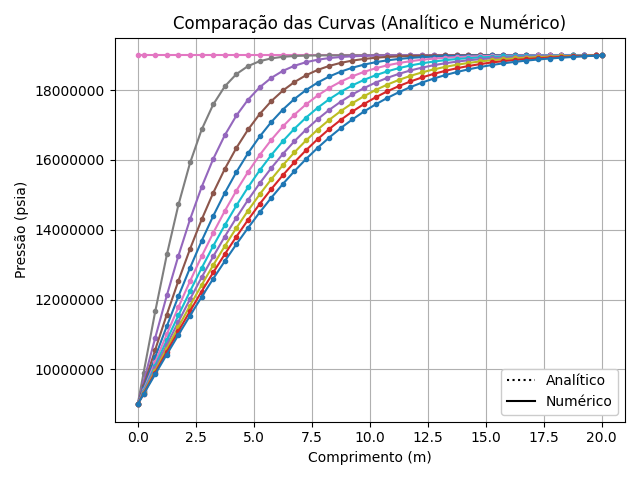
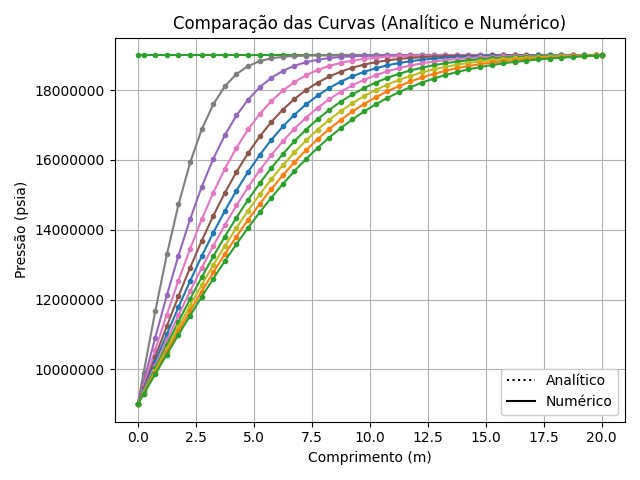
Apenas reorganização dos arquivos em diretórios.
Lembrando que tem que arrumar o Fluxo-Fluxo!

Changed region(s): [[0.2188, 0.0938, 0.9688, 0.8438], [0.2188, 0.0938, 0.4688, 0.125]]

diff --git a/Simuladores_Explicito/Sim_LinearFlow_CCFlowPress.py b/Simuladores_Explicito/Sim_LinearFlow_CCFlowPress.py
@@ -1,6 +1,6 @@
 """
-Simuladores para fluxo linear e radial - Métodos numéricos
-Condições de Contorno de Neumann - Fluxo no poço e na fronteira.
+Simuladores para fluxo linear e radial - Métodos analitico e numérico
+Condições de Contorno de Neumann e Dirichlet - Fluxo no poço e Pressão na fronteira.
 
 Método FTCS -- Forward in Time Centered Space
 """
@@ -20,8 +20,8 @@ class NumericalAnalysis:
         self.start_simulate()
 
     def plot_results(self, data: Df):
-        if not os.path.isdir(f'results\\Simulador_Fluxo-Fluxo'):
-            os.makedirs(f'results\\Simulador_Fluxo-Fluxo')
+        if not os.path.isdir(f'../results/Simulador_Fluxo-Pressao'):
+            os.makedirs(f'../results/Simulador_Fluxo-Pressao')
 
         # Setting the mesh points as the dataframe index
         index_for_dataframe = [round(self.wellclass.mesh[key], ndigits=3) for key in self.wellclass.mesh.keys()]
@@ -36,14 +36,14 @@ class NumericalAnalysis:
         plt.ticklabel_format(axis='y', style='plain')
         plt.xlabel('Comprimento (m)')
         plt.ylabel('Pressão (psia)')
-        plt.title('Flow-Flow [Numérico]')
+        plt.title('Flow-Pressão [Numérico]')
         plt.legend(framealpha=1)
         plt.grid()
         plt.tight_layout()
-        plt.savefig(f'results\\Simulador_Fluxo-Fluxo\\fluxo-fluxo_numerico.png')
+        plt.savefig(f'results\\Simulador_Fluxo-Pressao\\fluxo-pressao_numerico.png')
         plt.close()
 
-        data.to_excel(f'results\\Simulador_Fluxo-Fluxo\\fluxo-fluxo_numerico.xlsx')
+        data.to_excel(f'results\\Simulador_Fluxo-Pressao\\fluxo-pressao_numerico.xlsx')
 
     def start_simulate(self):
         pressure_df, col_idx, row_idx = Functions.create_dataframe(time=self.time, n_cells=self.wellclass.n_cells)
@@ -59,18 +59,14 @@ class NumericalAnalysis:
             else:
                 for j_row in row_idx:
 
-                    if j_row == 0:  # Poço
+                    if j_row == 0:
                         p0_t = pressure_df.loc[j_row + 1, last_column]  # pressão no ponto 1, tempo anterior.
                         pressure_df.loc[j_row, i_col] = p0_t - (((self.wellclass.well_flow * self.wellclass.viscosity)
                                                                  / (self.wellclass.permeability *
-                                                                    self.wellclass.res_area)) * self.wellclass.deltax / 2)
+                                                                    self.wellclass.res_area)) * self.wellclass.deltax/2)
 
-                    elif j_row == self.wellclass.n_cells + 1:  # Fronteira externa
-                        a = (self.wellclass.injectflow * self.wellclass.viscosity) / \
-                            (self.wellclass.permeability * self.wellclass.res_area)
-                        b = self.wellclass.deltax / 2
-                        p_n = pressure_df.loc[j_row - 1, last_column]  # pressão no ponto N, no tempo anterior.
-                        pressure_df.loc[j_row, i_col] = p_n - (a * b)
+                    elif j_row == self.wellclass.n_cells + 1:
+                        pressure_df.loc[j_row, i_col] = self.wellclass.initial_pressure
 
                     else:
                         if j_row == 1:  # i = 1. Ponto central da primeira célula.
@@ -88,11 +84,9 @@ class NumericalAnalysis:
                             p_n_t = pressure_df.loc[j_row, last_column]  # pressão no ponto N, no tempo anterior.
                             p_n_1_t = pressure_df.loc[j_row - 1, last_column]  # pressão no ponto N-1, no
                             # tempo anterior
-                            a = - self.wellclass.eta * self.wellclass.rx * p_n_1_t
-                            b = (1 - (self.wellclass.eta * self.wellclass.rx)) * p_n_t
-                            c = - (self.wellclass.eta * self.wellclass.rx * self.wellclass.injectflow *
-                                   self.wellclass.viscosity * self.wellclass.deltax) / (self.wellclass.permeability *
-                                                                                        self.wellclass.res_area)
+                            a = (4 / 3) * self.wellclass.eta * self.wellclass.rx * p_n_1_t
+                            b = (1 - (4 * self.wellclass.eta * self.wellclass.rx)) * p_n_t
+                            c = (8 / 3) * self.wellclass.eta * self.wellclass.rx * self.wellclass.initial_pressure
                             pressure_df.loc[j_row, i_col] = a + b + c
 
                         else:
@@ -109,10 +103,64 @@ class NumericalAnalysis:
         self.plot_results(data=pressure_df)
 
 
+class AnaliticalAnalysis:
+    def __init__(self, t: np.ndarray, well_class: object):
+        self.pressure = None
+        self.time = t
+        self.well_class = well_class
+        self.start_simulate()
+
+    def plot_results(self, data: Df):
+        if not os.path.isdir(f'../results/Simulador_Fluxo-Pressao'):
+            os.makedirs(f'../results/Simulador_Fluxo-Pressao')
+
+        # Setting the mesh points as the dataframe index
+        index_for_dataframe = [round(self.well_class.mesh[key], ndigits=3) for key in self.well_class.mesh.keys()]
+        data = data.set_index(pd.Index(index_for_dataframe, name='x'))
+
+        time_to_plot = np.linspace(self.time[0], self.time[-1], 11)
+
+        for column in data.columns:
+            if column in time_to_plot:
+                plt.plot(data.index, data[column], label=f't = {int(column)}h')
+
+        plt.ticklabel_format(axis='y', style='plain')
+        plt.xlabel('Comprimento (m)')
+        plt.ylabel('Pressão (psia)')
+        plt.title('Fluxo-Pressão [Analítico]')
+        plt.legend(framealpha=1)
+        plt.grid()
+        plt.tight_layout()
+        plt.savefig(f'results\\Simulador_Fluxo-Pressao\\fluxo-pressao_analitico.png')
+        plt.close()
+
+        data.to_excel(f'results\\Simulador_Fluxo-Pressao\\fluxo-pressao_analitico.xlsx')
+
+    def start_simulate(self):
+        pressure_df, col_idx, row_idx = Functions.create_dataframe(time=self.time, n_cells=self.well_class.n_cells)
+
+        for time in col_idx:
+            if time == 0:
+                for x in row_idx:
+                    pressure_df.loc[x, time] = self.well_class.initial_pressure
+
+            else:
+                for x in row_idx:
+                    a = ((self.well_class.well_flow * self.well_class.viscosity) /
+                         (self.well_class.permeability * self.well_class.res_area))
+                    b = np.sqrt((4 * self.well_class.eta * time) / np.pi)
+                    c = np.exp(self.well_class.mesh[x] ** 2 / (-4 * self.well_class.eta * time))
+                    d = self.well_class.mesh[x]
+                    e = erfc(self.well_class.mesh[x] / np.sqrt(4 * self.well_class.eta * time))
+                    value = (self.well_class.initial_pressure - (a * ((b * c) - (d * e))))
+                    pressure_df.loc[x, time] = value
+
+        self.plot_results(data=pressure_df)
+
+
 class InitializeData:
     def __init__(self, initial_press: float, well_press: float, res_len: float, permeability: float, viscosity: float,
-                 porosity: float, compressibility: float, res_area: float, res_thick: float or int, wellflow: float,
-                 injectflow: float):
+                 porosity: float, compressibility: float, res_area: float, res_thick: float or int, wellflow: float):
         self.initial_pressure = initial_press
         self.well_pressure = well_press
         self.res_length = res_len
@@ -123,7 +171,6 @@ class InitializeData:
         self.res_area = res_area
         self.res_thickness = res_thick
         self.well_flow = wellflow
-        self.injectflow = injectflow
         self.eta = self.calc_eta()
 
     def calc_eta(self) -> float:

diff --git a/Simuladores_Explicito/Sim_LinearFlow_CCFlowFlow.py b/Simuladores_Explicito/Sim_LinearFlow_CCFlowFlow.py
@@ -1,6 +1,6 @@
 """
-Simuladores para fluxo linear e radial - Métodos analitico e numérico
-Condições de Contorno de Neumann e Dirichlet - Fluxo no poço e Pressão na fronteira.
+Simuladores para fluxo linear e radial - Métodos numéricos
+Condições de Contorno de Neumann - Fluxo no poço e na fronteira.
 
 Método FTCS -- Forward in Time Centered Space
 """
@@ -20,8 +20,8 @@ class NumericalAnalysis:
         self.start_simulate()
 
     def plot_results(self, data: Df):
-        if not os.path.isdir(f'results\\Simulador_Fluxo-Pressao'):
-            os.makedirs(f'results\\Simulador_Fluxo-Pressao')
+        if not os.path.isdir(f'../results/Simulador_Fluxo-Fluxo'):
+            os.makedirs(f'../results/Simulador_Fluxo-Fluxo')
 
         # Setting the mesh points as the dataframe index
         index_for_dataframe = [round(self.wellclass.mesh[key], ndigits=3) for key in self.wellclass.mesh.keys()]
@@ -36,14 +36,14 @@ class NumericalAnalysis:
         plt.ticklabel_format(axis='y', style='plain')
         plt.xlabel('Comprimento (m)')
         plt.ylabel('Pressão (psia)')
-        plt.title('Flow-Pressão [Numérico]')
+        plt.title('Flow-Flow [Numérico]')
         plt.legend(framealpha=1)
         plt.grid()
         plt.tight_layout()
-        plt.savefig(f'results\\Simulador_Fluxo-Pressao\\fluxo-pressao_numerico.png')
+        plt.savefig(f'results\\Simulador_Fluxo-Fluxo\\fluxo-fluxo_numerico.png')
         plt.close()
 
-        data.to_excel(f'results\\Simulador_Fluxo-Pressao\\fluxo-pressao_numerico.xlsx')
+        data.to_excel(f'results\\Simulador_Fluxo-Fluxo\\fluxo-fluxo_numerico.xlsx')
 
     def start_simulate(self):
         pressure_df, col_idx, row_idx = Functions.create_dataframe(time=self.time, n_cells=self.wellclass.n_cells)
@@ -59,14 +59,18 @@ class NumericalAnalysis:
             else:
                 for j_row in row_idx:
 
-                    if j_row == 0:
+                    if j_row == 0:  # Poço
                         p0_t = pressure_df.loc[j_row + 1, last_column]  # pressão no ponto 1, tempo anterior.
                         pressure_df.loc[j_row, i_col] = p0_t - (((self.wellclass.well_flow * self.wellclass.viscosity)
                                                                  / (self.wellclass.permeability *
-                                                                    self.wellclass.res_area)) * self.wellclass.deltax/2)
+                                                                    self.wellclass.res_area)) * self.wellclass.deltax / 2)
 
-                    elif j_row == self.wellclass.n_cells + 1:
-                        pressure_df.loc[j_row, i_col] = self.wellclass.initial_pressure
+                    elif j_row == self.wellclass.n_cells + 1:  # Fronteira externa
+                        a = (self.wellclass.injectflow * self.wellclass.viscosity) / \
+                            (self.wellclass.permeability * self.wellclass.res_area)
+                        b = self.wellclass.deltax / 2
+                        p_n = pressure_df.loc[j_row - 1, last_column]  # pressão no ponto N, no tempo anterior.
+                        pressure_df.loc[j_row, i_col] = p_n - (a * b)
 
                     else:
                         if j_row == 1:  # i = 1. Ponto central da primeira célula.
@@ -84,9 +88,11 @@ class NumericalAnalysis:
                             p_n_t = pressure_df.loc[j_row, last_column]  # pressão no ponto N, no tempo anterior.
                             p_n_1_t = pressure_df.loc[j_row - 1, last_column]  # pressão no ponto N-1, no
                             # tempo anterior
-                            a = (4 / 3) * self.wellclass.eta * self.wellclass.rx * p_n_1_t
-                            b = (1 - (4 * self.wellclass.eta * self.wellclass.rx)) * p_n_t
-                            c = (8 / 3) * self.wellclass.eta * self.wellclass.rx * self.wellclass.initial_pressure
+                            a = - self.wellclass.eta * self.wellclass.rx * p_n_1_t
+                            b = (1 - (self.wellclass.eta * self.wellclass.rx)) * p_n_t
+                            c = - (self.wellclass.eta * self.wellclass.rx * self.wellclass.injectflow *
+                                   self.wellclass.viscosity * self.wellclass.deltax) / (self.wellclass.permeability *
+                                                                                        self.wellclass.res_area)
                             pressure_df.loc[j_row, i_col] = a + b + c
 
                         else:
@@ -103,64 +109,10 @@ class NumericalAnalysis:
         self.plot_results(data=pressure_df)
 
 
-class AnaliticalAnalysis:
-    def __init__(self, t: np.ndarray, well_class: object):
-        self.pressure = None
-        self.time = t
-        self.well_class = well_class
-        self.start_simulate()
-
-    def plot_results(self, data: Df):
-        if not os.path.isdir(f'results\\Simulador_Fluxo-Pressao'):
-            os.makedirs(f'results\\Simulador_Fluxo-Pressao')
-
-        # Setting the mesh points as the dataframe index
-        index_for_dataframe = [round(self.well_class.mesh[key], ndigits=3) for key in self.well_class.mesh.keys()]
-        data = data.set_index(pd.Index(index_for_dataframe, name='x'))
-
-        time_to_plot = np.linspace(self.time[0], self.time[-1], 11)
-
-        for column in data.columns:
-            if column in time_to_plot:
-                plt.plot(data.index, data[column], label=f't = {int(column)}h')
-
-        plt.ticklabel_format(axis='y', style='plain')
-        plt.xlabel('Comprimento (m)')
-        plt.ylabel('Pressão (psia)')
-        plt.title('Fluxo-Pressão [Analítico]')
-        plt.legend(framealpha=1)
-        plt.grid()
-        plt.tight_layout()
-        plt.savefig(f'results\\Simulador_Fluxo-Pressao\\fluxo-pressao_analitico.png')
-        plt.close()
-
-        data.to_excel(f'results\\Simulador_Fluxo-Pressao\\fluxo-pressao_analitico.xlsx')
-
-    def start_simulate(self):
-        pressure_df, col_idx, row_idx = Functions.create_dataframe(time=self.time, n_cells=self.well_class.n_cells)
-
-        for time in col_idx:
-            if time == 0:
-                for x in row_idx:
-                    pressure_df.loc[x, time] = self.well_class.initial_pressure
-
-            else:
-                for x in row_idx:
-                    a = ((self.well_class.well_flow * self.well_class.viscosity) /
-                         (self.well_class.permeability * self.well_class.res_area))
-                    b = np.sqrt((4 * self.well_class.eta * time) / np.pi)
-                    c = np.exp(self.well_class.mesh[x] ** 2 / (-4 * self.well_class.eta * time))
-                    d = self.well_class.mesh[x]
-                    e = erfc(self.well_class.mesh[x] / np.sqrt(4 * self.well_class.eta * time))
-                    value = (self.well_class.initial_pressure - (a * ((b * c) - (d * e))))
-                    pressure_df.loc[x, time] = value
-
-        self.plot_results(data=pressure_df)
-
-
 class InitializeData:
     def __init__(self, initial_press: float, well_press: float, res_len: float, permeability: float, viscosity: float,
-                 porosity: float, compressibility: float, res_area: float, res_thick: float or int, wellflow: float):
+                 porosity: float, compressibility: float, res_area: float, res_thick: float or int, wellflow: float,
+                 injectflow: float):
         self.initial_pressure = initial_press
         self.well_pressure = well_press
         self.res_length = res_len
@@ -171,6 +123,7 @@ class InitializeData:
         self.res_area = res_area
         self.res_thickness = res_thick
         self.well_flow = wellflow
+        self.injectflow = injectflow
         self.eta = self.calc_eta()
 
     def calc_eta(self) -> float:

diff --git a/Simuladores_Explicito/Sim_LinearFlow_CCPresPres.py b/Simuladores_Explicito/Sim_LinearFlow_CCPresPres.py
@@ -19,8 +19,8 @@ class NumericalAnalysis:
         self.start_simulate()
 
     def plot_results(self, data: Df):
-        if not os.path.isdir(f'results\\Simulador_Pressao-Pressao'):
-            os.makedirs(f'results\\Simulador_Pressao-Pressao')
+        if not os.path.isdir(f'../results/Simulador_Pressao-Pressao'):
+            os.makedirs(f'../results/Simulador_Pressao-Pressao')
 
         # Setting the mesh points as the dataframe index
         index_for_dataframe = [round(self.well_class.mesh[key], ndigits=3) for key in self.well_class.mesh.keys()]
@@ -135,8 +135,8 @@ class AnaliticalAnalysis:
         return sum_value
 
     def plot_result(self, data: Df):
-        if not os.path.isdir(f'results\\Simulador_Pressao-Pressao'):
-            os.makedirs(f'results\\Simulador_Pressao-Pressao')
+        if not os.path.isdir(f'../results/Simulador_Pressao-Pressao'):
+            os.makedirs(f'../results/Simulador_Pressao-Pressao')
 
         # Setting the mesh points as the dataframe index
         index_for_dataframe = [round(self.well_class.mesh[key], ndigits=3) for key in self.well_class.mesh.keys()]

diff --git a/main_SimToFlowFlow.py b/main_SimToFlowFlow.py
@@ -1,7 +1,7 @@
 """
 Main for Cases to Simulate Linear Flow Monofase 1D - EDH _ Condições de Neumann nas duas Extremidades
 """
-import Sim_LinearFlow_CCFlowFlow as Sim_ff
+from Simuladores_Explicito import Sim_LinearFlow_CCFlowFlow as Sim_ff
 import Functions
 import numpy as np
 import pandas as pd
@@ -17,7 +17,7 @@ compressibi = 2.04e-9
 area = 30.
 thickness = 10.
 wellflow = 0.01
-injectivityflow = 0.01
+injectivityflow = 0.007
 
 ''' Inicializando simuladores Pressão - Pressão -------------------------------------------------------------------- '''
 case_to_sim = Sim_ff.InitializeData(initial_press=pressure_initial, well_press=pressure_well, res_area=area,

diff --git a/main_SimToFlowPress.py b/main_SimToFlowPress.py
@@ -2,7 +2,7 @@
 Main for Cases to Simulate Linear Flow Monofase 1D - EDH _ Condição de Neumann no Poço e de Dirichlet na Extremidade da
 Fronteira
 """
-import Sim_LinearFlow_CCFlowPress as Sim_fp
+from Simuladores_Explicito import Sim_LinearFlow_CCFlowPress as Sim_fp
 import Functions
 import numpy as np
 import pandas as pd

diff --git a/main_SimToPressPress.py b/main_SimToPressPress.py
@@ -1,7 +1,7 @@
 """
 Main for Cases to Simulate Linear Flow Monofase 1D - EDH _ Condições de Dirichlet nas duas Extremidades
 """
-import Sim_LinearFlow_CCPresPres as Sim_pp
+from Simuladores_Explicito import Sim_LinearFlow_CCPresPres as Sim_pp
 import Functions
 import numpy as np
 import pandas as pd
